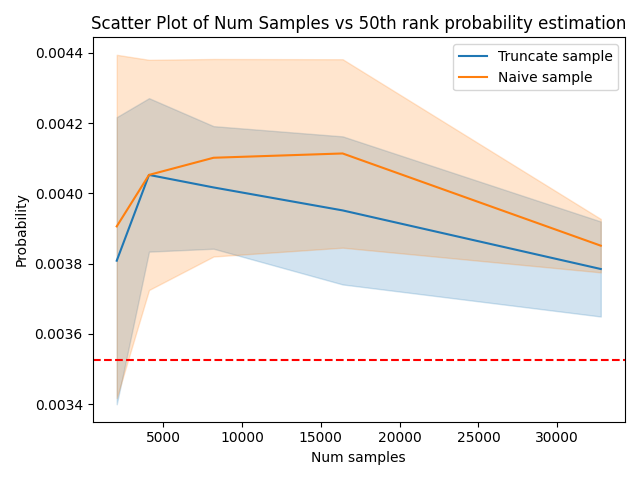
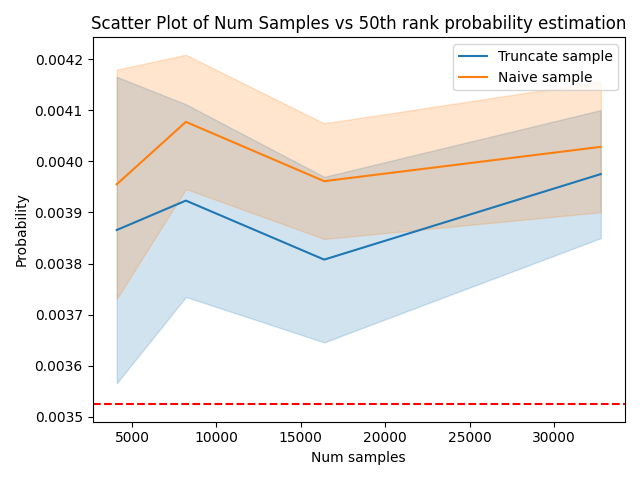
sequential samplign doesnt seem to help

diff --git a/logit-estimation/estimators.py b/logit-estimation/estimators.py
@@ -78,7 +78,7 @@ class Estimator:
     def mean(self):
         if len(self.samples) == 0:
             return None
-        probs = torch.zeros(self.vocab_size) + 1e-100 # smoothing
+        probs = torch.zeros(self.vocab_size) + 1e-75 # smoothing
         probs.scatter_add_(
             0,
             torch.tensor(self.samples, dtype=torch.int64),
@@ -127,10 +127,12 @@ if __name__ == "__main__":
     output = sampler.sample(prefix, 128)
     true_dist = output.true_dist
 
-    K = 1024
+    #K = 1024
+    K = 512
     tau = K // 2
 
-    Ts = [2, 4, 8, 16, 32]
+    #Ts = [2, 4, 8, 16, 32]
+    Ts = [8, 16, 32, 64]
 
     method_list = []
     samples_list = []
@@ -139,9 +141,9 @@ if __name__ == "__main__":
     max_prob_list = []
     prob_25_list = []
     prob_50_list = []
-    prob_100_list = []
+    prob_75_list = []
 
-    for _ in range(5):
+    for _ in range(10):
         for T in Ts:
             # test estimation
             e1 = estimate(sampler, prefix, K, T, tau)
@@ -164,8 +166,8 @@ if __name__ == "__main__":
             prob_25_list.append(mu2.topk(25).values[-1].item())
             prob_50_list.append(mu1.topk(50).values[-1].item())
             prob_50_list.append(mu2.topk(50).values[-1].item())
-            prob_100_list.append(mu1.topk(100).values[-1].item())
-            prob_100_list.append(mu2.topk(100).values[-1].item())
+            prob_75_list.append(mu1.topk(75).values[-1].item())
+            prob_75_list.append(mu2.topk(75).values[-1].item())
 
 
     df = pd.DataFrame({
@@ -174,7 +176,7 @@ if __name__ == "__main__":
         "max": max_prob_list,
         "25": prob_25_list,
         "50": prob_50_list,
-        "100": prob_100_list,
+        "75": prob_75_list,
         "method": method_list,
     })
     sns.lineplot(data=df, x="x", y="y", hue="method", errorbar="sd")
@@ -217,12 +219,12 @@ if __name__ == "__main__":
     plt.savefig("figures/truncated_samples_50.png")
     plt.clf()
 
-    sns.lineplot(data=df, x="x", y="100", hue="method", errorbar="sd")
-    plt.axhline(y=true_dist.probs.topk(100).values[-1].item(), color="red", linestyle="--")
-    plt.title("Scatter Plot of Num Samples vs 100th rank probability estimation")
+    sns.lineplot(data=df, x="x", y="75", hue="method", errorbar="sd")
+    plt.axhline(y=true_dist.probs.topk(75).values[-1].item(), color="red", linestyle="--")
+    plt.title("Scatter Plot of Num Samples vs 75th rank probability estimation")
     plt.xlabel("Num samples")
     plt.ylabel("Probability")
     plt.legend()
     plt.tight_layout()
-    plt.savefig("figures/truncated_samples_100.png")
+    plt.savefig("figures/truncated_samples_75.png")
     plt.clf()
